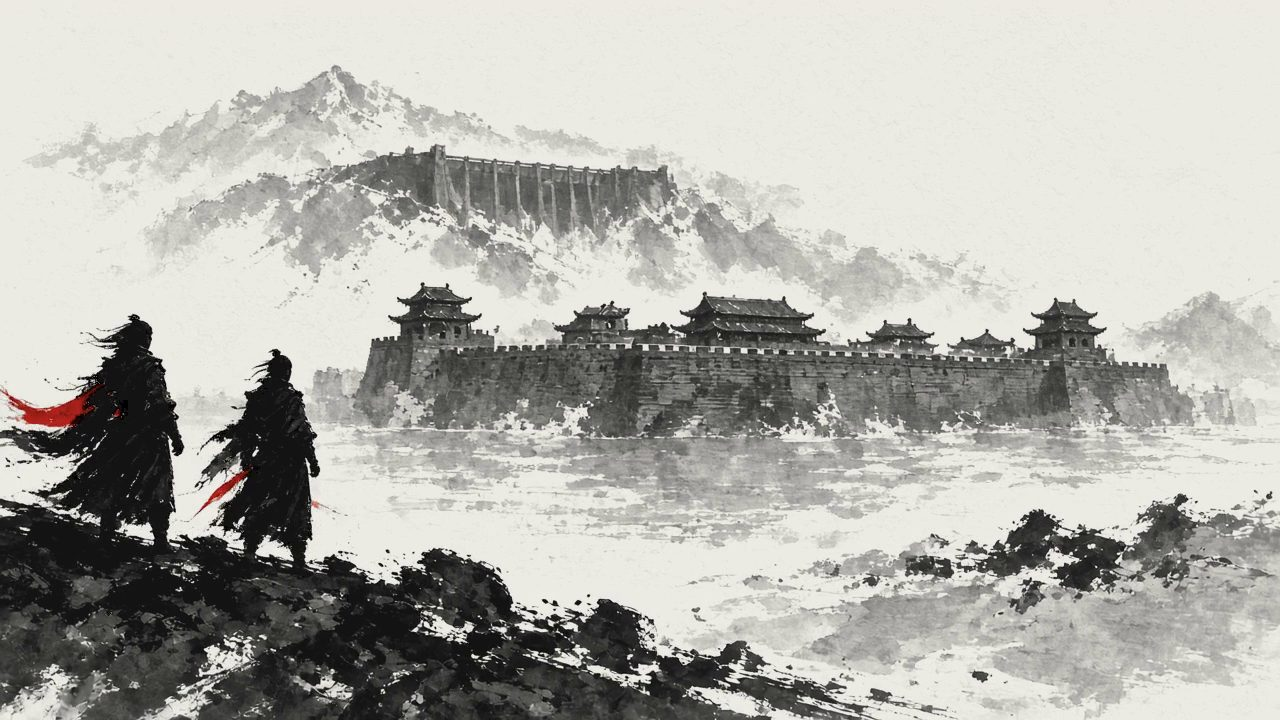
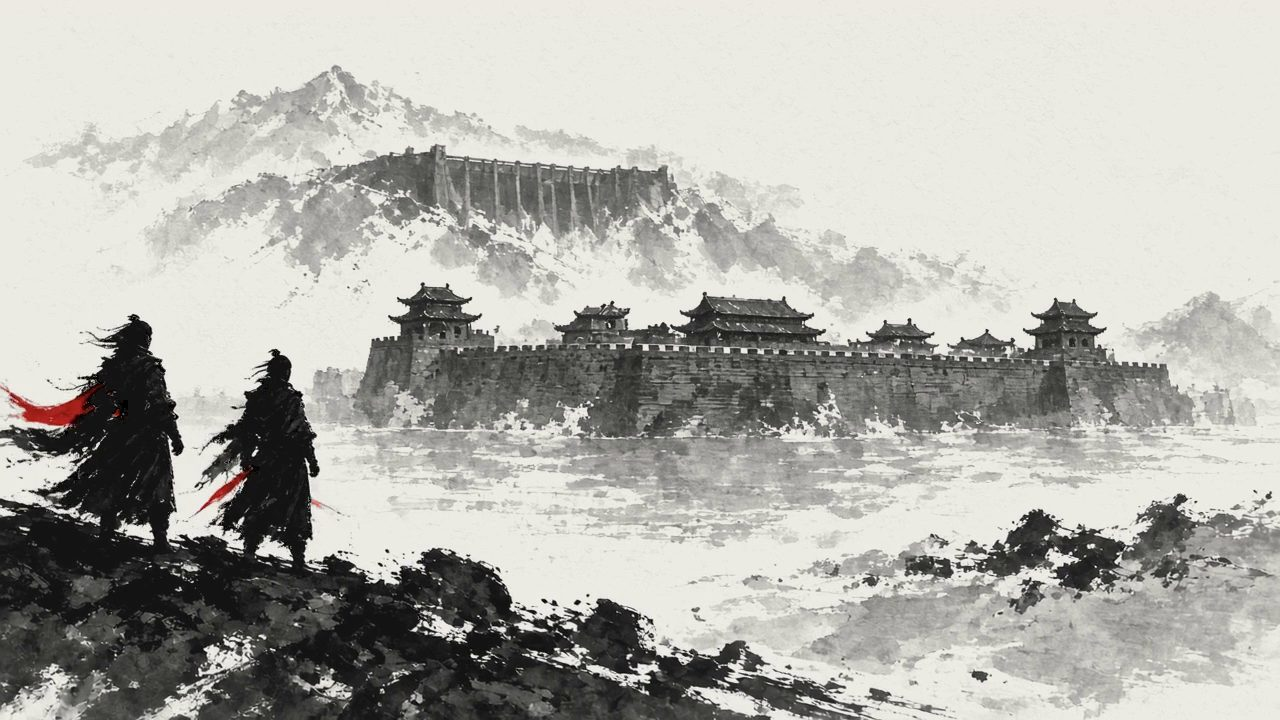
video: 战国 opening video rebuilt with ink-flow transitions (166.2 s, 25.2 MB, crf 32)
- 15 shots (06, 07, 12, 15 regenerated after the anachronism review), 14 generated 3 s ink-flow transitions
  (/workspace/chapter-video/zhanguo/transitions, not committed), narration rate -29% (97.9 s spoken), -16.0 LUFS
- transitions recorded in zhanguo.json; previous version 116.2 s, 20.2 MB

diff --git a/video/viewer/assets/chapter-videos/index.js b/video/viewer/assets/chapter-videos/index.js
@@ -118,7 +118,7 @@ window.CHAPTER_VIDEOS = {
    "mp4": "assets/chapter-videos/zhanguo.mp4",
    "poster": "assets/chapter-videos/zhanguo-poster.jpg",
    "posterWebp": "assets/chapter-videos/zhanguo-poster.webp",
-   "durationSec": 116.21,
+   "durationSec": 166.25,
    "shots": 15,
    "audio": true
   }

diff --git a/video/docs/chapter-videos.md b/video/docs/chapter-videos.md
@@ -55,7 +55,7 @@
 | 商 | `chapter-videos/shang.json`（6 场入镜 → 8 镜） | 8/8 完成 | v2 8/8 完成（镜 2 按提示光线由淡转灰，结尾偏暗；镜 6 墙上出现人影，未变形；镜 7、8 按时代错置审查重生成：无王冠、单层台榭） | 完成（2026-10-11 流墨版）：`shang.mp4` 90.2 秒 · 1280×720 · 约 22.7 MB（crf 28）· 有声（旁白 rate −29%，共 53.3 秒；−15.9 LUFS）；镜间 7 段 3 秒流墨转场（`/workspace/chapter-video/shang/transitions/`）；海报 jpg/webp。上一版 65.1 秒 · 14.6 MB |
 | 西周 | `chapter-videos/xizhou.json`（9 场入镜 → 9 镜） | 9/9 完成 | v2 9/9 完成（镜 1 山头两人后段略融成一块剪影；镜 6 天上有一条墨龙（静帧自带，稳定）；镜 7 城门像明代，已重生成为夯土城门） | 完成（2026-10-11 流墨版，重生成镜 7 与转场 4→5、6→7、7→8 后重建）：`xizhou.mp4` 99.6 秒 · 1280×720 · 约 25.7 MB（crf 28）· 有声（旁白 rate −29%，共 57.3 秒；−16.0 LUFS）；镜间 8 段 3 秒流墨转场（`/workspace/chapter-video/xizhou/transitions/`，硬切入、0.5 秒溶出）；镜 8 领头战车旗上的朱红斜笔复查：是沿旗杆的竖条加一道斜笔，成“<”形，不像十字；海报 jpg/webp。上一版 72.4 秒 · 16.0 MB |
 | 春秋 | `chapter-videos/chunqiu.json`（13 场入镜 → 13 镜） | 13/13 完成 | v2 13/13 完成（镜 10 专诸一镜朱红布幔与地面红色较多，未超出色板；镜 4、8、10、12 按时代错置审查重生成） | 完成（2026-10-11 流墨版）：`chunqiu.mp4` 143.9 秒 · 1280×720 · 约 25.9 MB（crf 31）· 有声（旁白 rate −29%，共 87.4 秒；−16.0 LUFS）；镜间 12 段 3 秒流墨转场（`/workspace/chapter-video/chunqiu/transitions/`）；海报 jpg/webp。上一版 101.6 秒 · 24.8 MB |
-| 战国 | `chapter-videos/zhanguo.json`（15 场入镜 → 15 镜） | 15/15 完成 | v2 15/15 完成（镜 3 徙木立信人物动作幅度较大，未变形；镜 8 火牛阵牛尾朱红火焰较多，未超出色板） | 完成：`zhanguo.mp4` 116.2 秒 · 1280×720 · 约 20.2 MB · 有声（-16.0 LUFS）；海报 jpg/webp |
+| 战国 | `chapter-videos/zhanguo.json`（15 场入镜 → 15 镜） | 15/15 完成 | v2 15/15 完成（镜 3 徙木立信人物动作幅度较大，未变形；镜 8 火牛阵牛尾朱红火焰较多，未超出色板；镜 6、7、12、15 按时代错置审查重生成） | 完成（2026-10-11 流墨版）：`zhanguo.mp4` 166.2 秒 · 1280×720 · 约 25.2 MB（crf 32）· 有声（旁白 rate −29%，共 97.9 秒；−16.0 LUFS）；镜间 14 段 3 秒流墨转场（`/workspace/chapter-video/zhanguo/transitions/`）；海报 jpg/webp。上一版 116.2 秒 · 20.2 MB |
 | 秦 | `chapter-videos/qin.json`（9 场入镜 → 9 镜） | 9/9 完成 | v2 9/9 完成（镜 3 博浪沙原片偏暖黄、一匹马跑出画面，调色后回到色板；镜 8 天色渐暗出现月亮，未变形） | 完成：`qin.mp4` 72.4 秒 · 1280×720 · 约 17.0 MB · 有声（-16.1 LUFS）；海报 jpg/webp |
 | 楚汉 · 西汉 | `chapter-videos/xihan.json`（13 场入镜 → 14 镜） | 14/14 完成 | v2 14/14 完成（镜 1 鸿门宴舞剑动作幅度较大、地上朱红较多，未接触、未变形；镜 13 后段天色压暗近黑，旁白末帧延 0.1 秒） | 完成：`xihan.mp4` 109.0 秒 · 1280×720 · 约 25.1 MB · 有声（-16.0 LUFS）；海报 jpg/webp |
 | 新 · 东汉 | `chapter-videos/donghan.json`（11 场入镜 → 11 镜） | 11/11 完成 | v2 11/11 完成（镜 7 燕然勒石后段左侧驶入一队举朱旗的骑兵（静帧没有，未变形）；镜 1 推镜较快） | 完成：`donghan.mp4` 87.0 秒 · 1280×720 · 约 21.8 MB · 有声（-16.0 LUFS）；海报 jpg/webp |

diff --git a/AGENTS.md b/AGENTS.md
@@ -185,6 +185,7 @@ node video/tools/validate.mjs   # 历史内容校验器，必须 0 个错误
 | 2026-10-11 | 商按新规则重建（重生成镜 7、8；流墨转场 7 段、旁白 −29%，90.2 s，22.7 MB，crf 28） | 本地提交，待审 |
 | 2026-10-11 | 西周再建（重生成镜 7 城门与转场 4→5、6→7、7→8；99.6 s，25.7 MB，crf 28） | 本地提交，待审 |
 | 2026-10-11 | 春秋按新规则重建（镜 4、8、10、12 按时代错置审查重生成；流墨转场 12 段、旁白 −29%，143.9 s，25.9 MB，crf 31） | 本地提交，待审 |
+| 2026-10-11 | 战国按新规则重建（镜 6、7、12、15 按时代错置审查重生成；流墨转场 14 段、旁白 −29%，166.2 s，25.2 MB，crf 32） | 本地提交，待审 |
 
 ## 10. 关键记忆与规则
 
